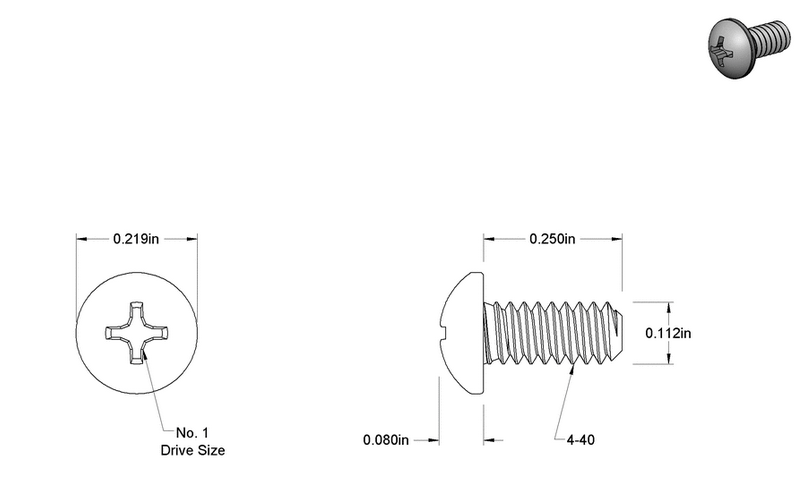
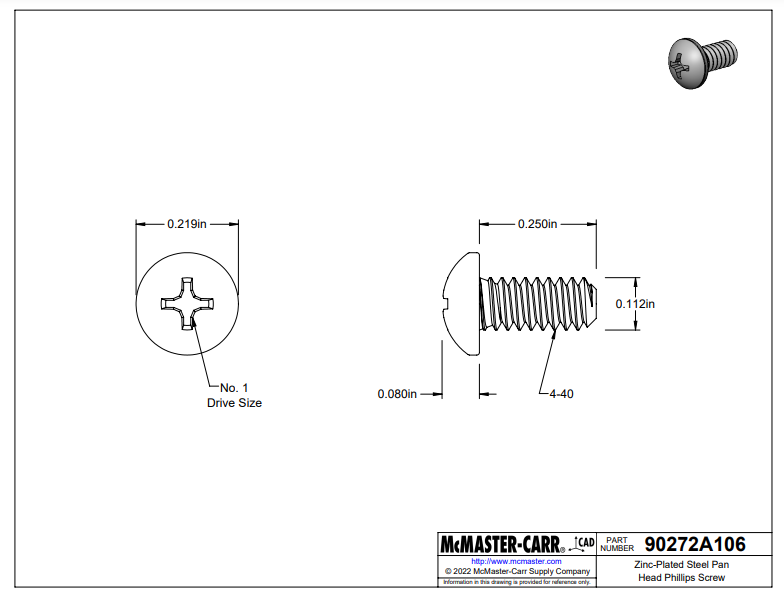
metal box replication

diff --git a/metal-box/README.md b/metal-box/README.md
@@ -1,5 +1,7 @@
+![](https://raw.githubusercontent.com/lafefspietz/MEMSduino/refs/heads/main/metal-box/images/bud-box-raw.png/images/qrcode.png)
+![](images/qrcode-page.png)
 
-# Metal Box
+# [Metal Box](https://github.com/lafefspietz/MEMSduino/tree/main/metal-box)
 
 Machined modifications to off the shelf diecast aluminum enclosure, AN-1304-A box from Bud Industries.
 
@@ -7,3 +9,40 @@ Machined modifications to off the shelf diecast aluminum enclosure, AN-1304-A bo
 
 [![](https://raw.githubusercontent.com/lafefspietz/MEMSduino/refs/heads/main/metal-box/images/bud-box-raw.png)](https://www.digikey.com/en/products/detail/bud-industries/AN-1304-A/5804538)
 
+## PICTORIAL BILL OF MATERIALS
+
+### Bud Industries AN-1304-A
+
+![](images/bud-box-raw.png)
+
+![](images/bud-box-raw-drawing.png)
+
+### 3/4" long 4-40 Brass socket cap screws
+
+[McMaster Carr Part number 93465A113](https://www.mcmaster.com/93465A113/) are screws used to attach the metal box to the 1/2 thick wood board. Use with a #4 washer.
+
+![](images/4-40-brass-long-screw.png)
+
+![](images/4-40-brass-long-screw-drawing.png)
+
+### #4 Brass Washer
+
+[McMaster Carr part number 92916A320](https://www.mcmaster.com/92916A320/). Used with the 3/4" 4-40 brass screws to attach metal box to 1/2" wood board.
+
+![](images/number4-washer.png)
+
+![](images/number4-washer-drawing.png)
+
+### 1/4" long 4-40 
+
+These screws are used to attach various brackets to the inside of the box.  Make your brackets 3 mm thick, with a clearance hole for #4 screws, about 0.125" diameter.  These are [McMaster Carr Part number 90272A106](https://www.mcmaster.com/90272A106/).
+
+![](images/4-40-phillips-screws.png)
+
+
+### 3/16" long 4-40 hex standoffs
+
+[McMaster Carr Part number 91075A462](https://www.mcmaster.com/91075A462/)
+
+
+![](images/)
